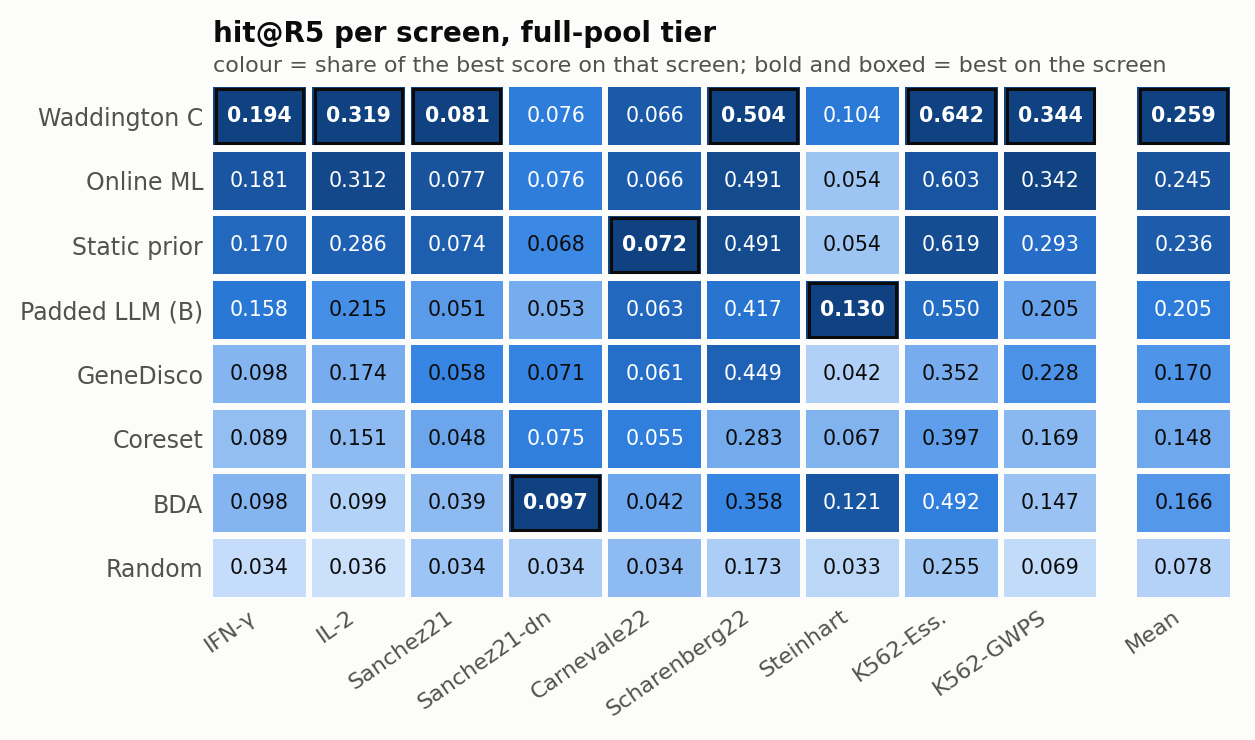
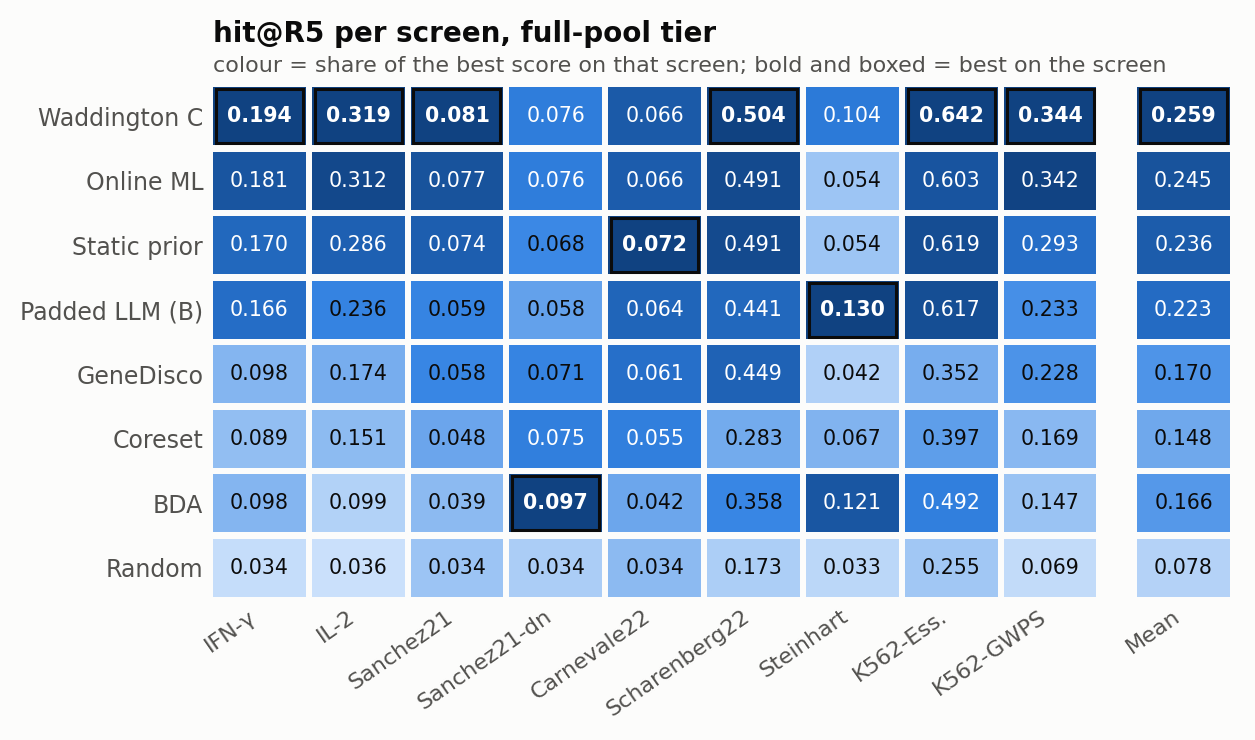
Main tables carry the matched B (padding on C's own features)
The padded LLM baseline B of the main tables, figures 1-3 and the result
figures is now experiment 23's run, whose static padding reads the C-arm's
features; the original-configuration B moves to the appendix next to the
other original-configuration baselines (figure 18 gains a B panel).

sources.matched_b_run is the one path to those runs. matched_b.py uses
seed 4 for the paired bootstrap, as final_system_stats does for C vs the
LLM branch (so C - original B reproduces +0.049 [0.019, 0.080]), records
per-screen padding shares, and adds BDA - matched B on the pair settings.

Headline C - B: +0.036 [0.013, 0.063], 8/0/1 (was +0.049).

diff --git a/waddington_select/analysis/result_figures.py b/waddington_select/analysis/result_figures.py
@@ -34,6 +34,7 @@ from matplotlib.patches import Patch, Rectangle  # noqa: E402
 from matplotlib.ticker import PercentFormatter  # noqa: E402
 
 from . import style as S  # noqa: E402
+from .sources import MATCHED_B_ARM, matched_b_run  # noqa: E402
 
 REPO = Path(__file__).resolve().parents[2]
 RES = REPO / "workspace" / "results"
@@ -100,6 +101,13 @@ def paper(*vals, nd: int = 3) -> None:
 
 def load(name: str) -> dict:
     return json.loads((RES / name).read_text())
+
+
+def _matched_b(tier: str) -> dict:
+    """B padded from C's own features (experiment 23), the B of the main tables: screen -> hit ratio per round,
+    mean over the twenty replicates."""
+    runs = json.loads(matched_b_run(tier).read_text())
+    return {s: np.mean([r["hit_ratio_per_round"] for r in runs[s][MATCHED_B_ARM]], axis=0).tolist() for s in SCREENS}
 
 
 def save(fig, key: str) -> None:
@@ -223,9 +231,10 @@ def fig_overview():
     """Explainer section 1: the reported system against the strongest baseline on each of BDA's three tiers."""
     mb = load("matched_baselines.json")
     h, f = mb["headline"]["means"], mb["full_pool"]["means"]
-    pairs = [("Waddington C", 112.6, C["waddington_c"]), (name_b(), 128.2, C["llm_reasoning"]),
+    pb = round(load("matched_b.json")["pairs128"]["means"]["matched_B"], 1)
+    pairs = [("Waddington C", 112.6, C["waddington_c"]), (name_b(), pb, C["llm_reasoning"]),
              ("BDA", 160.0, C["bda"]), ("Random", 60.0, C["random"])]
-    paper(112.6, 128.2, 160.0, 60.0, nd=1)
+    paper(112.6, pb, 160.0, 60.0, nd=1)
     fig, axs = plt.subplots(1, 3, figsize=(6.6, 1.95), gridspec_kw=dict(wspace=0.95))
     for ax, t, m in ((axs[0], L("单扰动・非必需（主档）", "Single gene, non-essential"), h),
                      (axs[1], L("单扰动・全池", "Single gene, full pool"), f)):
@@ -372,7 +381,7 @@ def _main_rows(tier: str):
         "Waddington C": [rep[s]["waddington_c"][-1] for s in SCREENS],
         "Online ML": [mat[s]["online_ml"][-1] for s in SCREENS],
         name_static(): [mat[s]["static_prior"][-1] for s in SCREENS],
-        name_b(): [rep[s]["llm_reasoning"][-1] for s in SCREENS],
+        name_b(): [v[-1] for v in _matched_b(tier).values()],
         "Coreset": [mat[s]["coreset"][-1] for s in SCREENS],
         "Random": [rep[s]["random"][-1] for s in SCREENS],
     }
@@ -396,7 +405,7 @@ def fig_paired():
     """C minus each baseline, paired over the nine screens (paper Table 5's paired block)."""
     rows = [(L("静态先验（0.231）", "Static prior (0.231)"), 0.030, 0.016, 0.044, "8/0/1"),
             (L("Online ML（0.245，即 C 去掉 LLM）", "Online ML = C without LLM (0.245)"), 0.015, 0.004, 0.026, "7/0/2"),
-            (L("B：LLM 补位（0.212）", "Padded LLM, B (0.212)"), 0.049, 0.019, 0.080, "8/0/1"),
+            (L("B：LLM 补位（0.224）", "Padded LLM, B (0.224)"), 0.036, 0.013, 0.063, "8/0/1"),
             (L("Coreset（0.154）", "Coreset (0.154)"), 0.107, 0.060, 0.155, "9/0/0")]
     for r in rows:
         paper(*r[1:4])
@@ -684,12 +693,12 @@ def fig_robustness():
 
 def fig_tiers():
     """Every method on the two single-gene tiers."""
-    mb = load("matched_baselines.json")
+    mb, mbb = load("matched_baselines.json"), load("matched_b.json")
     h, f = mb["headline"]["means"], mb["full_pool"]["means"]
     paper(0.146, 0.166, 0.171, 0.170)
     items = [("Waddington C", h["C"], f["C"]), ("Online ML", h["matched_online_ml"], f["matched_online_ml"]),
              (name_static(), h["matched_static_prior"], f["matched_static_prior"]),
-             (name_b(), h["benchmark_llm_reasoning"], f["benchmark_llm_reasoning"]),
+             (name_b(), mbb["headline"]["means"]["matched_B"], mbb["full_pool"]["means"]["matched_B"]),
              ("GeneDisco", 0.171, 0.170), ("BDA", 0.146, 0.166), ("Coreset", h["matched_coreset"], f["matched_coreset"]),
              ("Random", h["benchmark_random"], f["benchmark_random"])]
     fig, ax = plt.subplots(figsize=(6.6, 2.7))
@@ -715,10 +724,11 @@ def fig_tiers():
 
 def fig_pairs():
     """The two-gene tier at 640 picks (paper Tables 11-12, 21 and the pair text)."""
+    pb = load("matched_b.json")["pairs128"]
     rows = [("Random", 60.0, 7.3, C["random"]), (name_static(), 40, None, C["static_ranker"]),
             ("Coreset", 77, None, C["coreset"]), ("Online ML", 83, None, C["online_adaptive"]),
             (L("Waddington C（报告配置）", "Waddington C (reported)"), 112.6, 24.7, C["waddington_c"]),
-            (name_b(), 128.2, 22.1, C["llm_reasoning"]),
+            (name_b(), round(pb["means"]["matched_B"], 1), round(pb["sd"]["matched_B"], 1), C["llm_reasoning"]),
             (L("C + 随机森林引擎（仅 K562）", "C with random-forest engine"), 157.5, 25.5, LIGHT_BLUE),
             (L("BDA（GPT-5.6 Luna）", "BDA (our run, GPT-5.6 Luna)"), 160.0, 15.7, C["bda"]),
             ("", None, None, S.SURFACE),
@@ -793,20 +803,21 @@ def fig_jurkat():
 
 
 def fig_benchmark_config():
-    """Paper appendix: the three ML baselines in the original benchmark configuration (nine features with the
+    """Paper appendix: the baselines in the original benchmark configuration (nine features with the
     anchor-relative ones, no DepMap) against the versions in C's own features, per screen (repo
-    matched_baselines.json)."""
+    matched_baselines.json; B, whose padding is the part that changes, matched_b.json)."""
     mb = load("matched_baselines.json")["headline"]
     rep, mat = mb["reported"], mb["matched"]
     arms = [("Static prior", "static_ranker", "static_prior"), ("Online ML", "online_adaptive", "online_ml"),
             ("Coreset", "coreset", "coreset")]
+    panels = [(name, [rep[s][ok][-1] for s in SCREENS], [mat[s][mk][-1] for s in SCREENS]) for name, ok, mk in arms]
+    pb = load("matched_b.json")["headline"]["per_screen"]
+    panels.append(("Padded LLM (B)", [pb["reported_B"][s] for s in SCREENS], [pb["matched_B"][s] for s in SCREENS]))
     labels = SCREEN_LABEL + ["Mean"]
-    fig, axs = plt.subplots(1, 3, figsize=(6.6, 3.0), sharey=True, gridspec_kw=dict(wspace=0.12))
+    fig, axs = plt.subplots(1, 4, figsize=(6.6, 3.0), sharey=True, gridspec_kw=dict(wspace=0.12))
     yy = np.arange(len(labels))[::-1]
     yy = np.where(yy == 0, -0.4, yy)               # a little air above the mean row
-    for ax, (name, orig_key, mat_key) in zip(axs, arms):
-        o = [rep[s][orig_key][-1] for s in SCREENS]
-        m = [mat[s][mat_key][-1] for s in SCREENS]
+    for ax, (name, o, m) in zip(axs, panels):
         o.append(float(np.mean(o)))
         m.append(float(np.mean(m)))
         for yi, a, b in zip(yy, o, m):
@@ -821,8 +832,8 @@ def fig_benchmark_config():
         title(ax, f"{name}\n{o[-1]:.3f} → {m[-1]:.3f}")
     axs[0].set_yticks(yy, labels)
     axs[0].get_yticklabels()[-1].set_fontweight("bold")
-    legend(axs[2], [dot_handle(S.MUTED, "original configuration"), dot_handle(BLUE, "C's own features (matched)")],
-           loc="upper center", bbox_to_anchor=(-0.6, -0.2), ncol=2)
+    legend(axs[1], [dot_handle(S.MUTED, "original configuration"), dot_handle(BLUE, "C's own features (matched)")],
+           loc="upper center", bbox_to_anchor=(1.06, -0.2), ncol=2)
     save(fig, "benchmark_config")
 
 
@@ -834,18 +845,18 @@ def fig_benchmark_config():
 TIERS = ("headline", "full_pool", "pairs")
 TIER_ZH = {"headline": "主档", "full_pool": "全池档", "pairs": "双扰动档"}
 GPT = RES / "gpt"
-PAIR_RUNS = {   # map -> (dataset, matched-baseline key, {method: (run file under gpt/, arm)})
+PAIR_RUNS = {   # map -> (dataset, matched-baseline key, {method: (run file under gpt/, arm)}); B padded from C's features
     "K562": ("Horlbeck", "pairs", {"Random": ("tier_b_pairs_20rep/calibration_20rep.json", "random"),
-                                   "B": ("tier_b_pairs_20rep/calibration_20rep.json", "llm_reasoning"),
+                                   "B": ("matched_b/pairs128/llm_reasoning_matched_20rep.json", MATCHED_B_ARM),
                                    "C": ("tier_b_pairs_20rep/waddington_c_20rep.json", "waddington_c"),
                                    "BDA": ("tier_b_pairs_20rep/bda_controlled_real.json", "bda")}),
     "Jurkat": ("Horlbeck_Jurkat", "jurkat_b128", {"Random": ("jurkat_b128_20rep/random_20rep.json", "random"),
-                                                  "B": ("jurkat_b128_20rep/llm_reasoning_20rep.json", "llm_reasoning"),
+                                                  "B": ("matched_b/jurkat128/llm_reasoning_matched_20rep.json", MATCHED_B_ARM),
                                                   "C": ("jurkat_b128_20rep/waddington_c_20rep.json", "waddington_c"),
                                                   "BDA": ("jurkat_b128_20rep/bda_20rep.json", "bda")}),
     # K562 at BDA's own protocol (32 pairs per round, 160 picks; paper Table pairs-bda)
     "K562_b32": ("Horlbeck", "pairs_b32", {"Random": ("tier_b_pairs_b32_20rep/calibration_20rep.json", "random"),
-                                           "B": ("tier_b_pairs_b32_20rep/calibration_20rep.json", "llm_reasoning"),
+                                           "B": ("matched_b/pairs32/llm_reasoning_matched_20rep.json", MATCHED_B_ARM),
                                            "C": ("tier_b_pairs_b32_20rep/waddington_c_20rep.json", "waddington_c"),
                                            "BDA": ("tier_b_pairs_b32_20rep/bda_controlled_real.json", "bda")}),
 }
@@ -871,13 +882,14 @@ def _gd_curves(folder: Path, arm: str = "gdfb_achilles_bnn_coreset") -> dict:
 
 
 def _single_tier(tier: str) -> dict:
-    """Single-gene tier: method -> screen -> hit ratio per round (C, B, Random: replicate means)."""
+    """Single-gene tier: method -> screen -> hit ratio per round (C, B, Random: replicate means; B padded from C's
+    features)."""
     mb = load("matched_baselines.json")[tier]
     rep, mat = mb["reported"], mb["matched"]
     m = {"Waddington C": {s: rep[s]["waddington_c"] for s in SCREENS},
          "Online ML": {s: mat[s]["online_ml"] for s in SCREENS},
          name_static(): {s: mat[s]["static_prior"] for s in SCREENS},
-         name_b(): {s: rep[s]["llm_reasoning"] for s in SCREENS},
+         name_b(): _matched_b(tier),
          "Coreset": {s: mat[s]["coreset"] for s in SCREENS},
          "Random": {s: rep[s]["random"] for s in SCREENS}}
     if tier == "headline":
@@ -1047,15 +1059,16 @@ def fig_tier_paired(tier: str):
         cfin = {s: m["Waddington C"][s][-1] for s in SCREENS}
         if tier == "headline":      # the paper's paired block (Table 5), as printed there
             given = {name_static(): (0.030, 0.016, 0.044, "8/0/1"), "Online ML": (0.015, 0.004, 0.026, "7/0/2"),
-                     name_b(): (0.049, 0.019, 0.080, "8/0/1"), "Coreset": (0.107, 0.060, 0.155, "9/0/0")}
+                     name_b(): (0.036, 0.013, 0.063, "8/0/1"), "Coreset": (0.107, 0.060, 0.155, "9/0/0")}
             for v in given.values():
                 paper(*v[:3])
         else:
             pc = load("matched_baselines.json")["full_pool"]["paired_C_vs"]
-            src = {name_static(): "matched_static_prior", "Online ML": "matched_online_ml",
-                   name_b(): "benchmark_llm_reasoning", "Coreset": "matched_coreset"}
+            src = {name_static(): "matched_static_prior", "Online ML": "matched_online_ml", "Coreset": "matched_coreset"}
             given = {n: (pc[k]["delta"], *pc[k]["ci95"], f"{pc[k]['wins']}/{pc[k]['ties']}/{pc[k]['losses']}")
                      for n, k in src.items()}
+            cb = load("matched_b.json")["full_pool"]["C_minus_matched_B"]
+            given[name_b()] = (cb["delta"], *cb["ci95"], f"{cb['wins']}/{cb['ties']}/{cb['losses']}")
         bda = _paired(cfin, {s: m["BDA"][s][-1] for s in SCREENS})
         given["BDA"] = (bda["delta"], *bda["ci95"], f"{bda['wins']}/{bda['ties']}/{bda['losses']}")
         means = {n: np.mean([m[n][s][-1] for s in SCREENS]) for n in names}

diff --git a/waddington_select/analysis/matched_b.py b/waddington_select/analysis/matched_b.py
@@ -3,11 +3,13 @@ matched_b.py — the padded LLM baseline B with its padding on the C-arm's featu
 reported B (padding on the original benchmark configuration: six intrinsic + three anchor, no DepMap) and C.
 
 Single-gene tiers: per-screen means over twenty replicates, then paired screen-clustered bootstrap over the nine
-screens (final_system_stats._paired). Two-gene tiers (one map each): Welch t over replicates.
+screens (final_system_stats._paired, seed 4 as its vs_llm_branch, so C - reported B reproduces the paper's
++0.049 [0.019, 0.080]). Two-gene tiers (one map each): Welch t over replicates.
 
-  C - matched B       the comparison the main table should carry: only who leads, the LLM or the ML, differs
-  C - reported B      as reported
+  C - matched B       the comparison the main tables carry: only who leads, the LLM or the ML, differs
+  C - reported B      the original-configuration B (Appendix, tab:benchmark_config)
   matched B - reported B   what the padding features alone did to B (anchors out, DepMap in)
+  BDA - matched B     two-gene tiers: BioDiscoveryAgent's agent at the same budget
 
 Run:  python -m waddington_select.analysis.matched_b      -> workspace/results/matched_b.json
 """
@@ -21,10 +23,9 @@ import numpy as np
 from scipy import stats
 
 from .final_system_stats import _paired
-from .sources import GPT, REPO, REPORTED_RUN, REPORTED_TIER_A_RUN
+from .sources import GPT, MATCHED_B_ARM, REPO, REPORTED_RUN, REPORTED_TIER_A_RUN, matched_b_run
 
 OUT = REPO / "workspace" / "results" / "matched_b.json"
-NEW = GPT / "matched_b"
 SINGLE = {"headline": REPORTED_RUN, "full_pool": REPORTED_TIER_A_RUN}
 EVAL = REPO / "workspace" / "evaluation"
 LABELS = {"headline": EVAL / "lgbm_training_data.csv", "full_pool": EVAL / "lgbm_training_data_tier_a.csv",
@@ -32,16 +33,21 @@ LABELS = {"headline": EVAL / "lgbm_training_data.csv", "full_pool": EVAL / "lgbm
           "pairs32": EVAL / "lgbm_training_data_horlbeck_pairs_mean.csv",
           "jurkat128": EVAL / "lgbm_training_data_horlbeck_jurkat_pairs.csv",
           "jurkat32": EVAL / "lgbm_training_data_horlbeck_jurkat_pairs.csv"}
-PAIRS = {  # tier -> (dataset, reported B file, C file)
+PAIRS = {  # tier -> (dataset, reported B file, C file, BDA file)
     "pairs128": ("Horlbeck", GPT / "tier_b_pairs_20rep" / "calibration_20rep.json",
-                 GPT / "tier_b_pairs_20rep" / "waddington_c_20rep.json"),
+                 GPT / "tier_b_pairs_20rep" / "waddington_c_20rep.json",
+                 GPT / "tier_b_pairs_20rep" / "bda_controlled_real.json"),
     "pairs32": ("Horlbeck", GPT / "tier_b_pairs_b32_20rep" / "calibration_20rep.json",
-                GPT / "tier_b_pairs_b32_20rep" / "waddington_c_20rep.json"),
+                GPT / "tier_b_pairs_b32_20rep" / "waddington_c_20rep.json",
+                GPT / "tier_b_pairs_b32_20rep" / "bda_controlled_real.json"),
     "jurkat128": ("Horlbeck_Jurkat", GPT / "jurkat_b128_20rep" / "llm_reasoning_20rep.json",
-                  GPT / "jurkat_b128_20rep" / "waddington_c_20rep.json"),
+                  GPT / "jurkat_b128_20rep" / "waddington_c_20rep.json",
+                  GPT / "jurkat_b128_20rep" / "bda_20rep.json"),
     "jurkat32": ("Horlbeck_Jurkat", GPT / "jurkat_b32_20rep" / "llm_reasoning_20rep.json",
-                 GPT / "jurkat_b32_20rep" / "waddington_c_20rep.json"),
+                 GPT / "jurkat_b32_20rep" / "waddington_c_20rep.json",
+                 GPT / "jurkat_b32_20rep" / "bda_20rep.json"),
 }
+SEED = 4  # final_system_stats.run_gpt's seed for C vs the LLM branch
 
 
 def _reps(path: Path, ds: str, arm: str) -> list[dict]:
@@ -87,13 +93,13 @@ def _split(reps: list[dict], hits: set, total: int) -> dict:
 def main() -> None:
     out = {}
     for tier, run in SINGLE.items():
-        f = NEW / tier / "llm_reasoning_matched_20rep.json"
+        f = matched_b_run(tier)
         if not f.exists():
             continue
         new, rep = json.loads(f.read_text()), json.loads(run.read_text())
         screens = list(rep)
         mean = lambda reps: float(np.mean([r["hit_ratio_per_round"][-1] for r in reps]))
-        b_new = {s: mean(new[s]["llm_reasoning_matched"]) for s in screens}
+        b_new = {s: mean(new[s][MATCHED_B_ARM]) for s in screens}
         b_old = {s: mean(rep[s]["llm_reasoning"]) for s in screens}
         c = {s: mean(rep[s]["waddington_c"]) for s in screens}
         out[tier] = {
@@ -101,33 +107,37 @@ def main() -> None:
             "means": {"matched_B": float(np.mean(list(b_new.values()))), "reported_B": float(np.mean(list(b_old.values()))),
                       "C": float(np.mean(list(c.values())))},
             "per_screen": {"matched_B": b_new, "reported_B": b_old, "C": c},
-            "C_minus_matched_B": _paired(c, b_new), "C_minus_reported_B": _paired(c, b_old),
-            "matched_B_minus_reported_B": _paired(b_new, b_old),
-            "padding_share": {"matched_B": _padding_share([r for s in screens for r in new[s]["llm_reasoning_matched"]]),
+            "C_minus_matched_B": _paired(c, b_new, seed=SEED), "C_minus_reported_B": _paired(c, b_old, seed=SEED),
+            "matched_B_minus_reported_B": _paired(b_new, b_old, seed=SEED),
+            "padding_share": {"matched_B": _padding_share([r for s in screens for r in new[s][MATCHED_B_ARM]]),
                               "reported_B": _padding_share([r for s in screens for r in rep[s]["llm_reasoning"]])},
-            "n_replicates": {s: len(new[s]["llm_reasoning_matched"]) for s in screens},
+            "padding_share_per_screen": {
+                "matched_B": {s: _padding_share(new[s][MATCHED_B_ARM]) for s in screens},
+                "reported_B": {s: _padding_share(rep[s]["llm_reasoning"]) for s in screens}},
+            "n_replicates": {s: len(new[s][MATCHED_B_ARM]) for s in screens},
         }
         H = _hits(tier)
         out[tier]["source_of_hits"] = {
             name: {k: float(np.mean([_split(reps[s], H[s], len(H[s]))[k] for s in screens]))
                    for k in ("named_picks", "named_hits", "padding_hits")}
-            for name, reps in (("matched_B", {s: new[s]["llm_reasoning_matched"] for s in screens}),
+            for name, reps in (("matched_B", {s: new[s][MATCHED_B_ARM] for s in screens}),
                                ("reported_B", {s: rep[s]["llm_reasoning"] for s in screens}))}
-    for tier, (ds, b_file, c_file) in PAIRS.items():
-        f = NEW / tier / "llm_reasoning_matched_20rep.json"
+    for tier, (ds, b_file, c_file, bda_file) in PAIRS.items():
+        f = matched_b_run(tier)
         if not f.exists():
             continue
-        new = _reps(f, ds, "llm_reasoning_matched")
+        new = _reps(f, ds, MATCHED_B_ARM)
         old, c = _reps(b_file, ds, "llm_reasoning"), _reps(c_file, ds, "waddington_c")
         hits = lambda reps: [r["cumulative_hits"][-1] for r in reps]
-        hn, ho, hc = hits(new), hits(old), hits(c)
+        hn, ho, hc, hb = hits(new), hits(old), hits(c), hits(_reps(bda_file, ds, "bda"))
         out[tier] = {
             "unit": "cumulative hits, " + ds,
-            "means": {"matched_B": float(np.mean(hn)), "reported_B": float(np.mean(ho)), "C": float(np.mean(hc))},
+            "means": {"matched_B": float(np.mean(hn)), "reported_B": float(np.mean(ho)), "C": float(np.mean(hc)),
+                      "BDA": float(np.mean(hb))},
             "sd": {"matched_B": float(np.std(hn, ddof=1)), "reported_B": float(np.std(ho, ddof=1)),
-                   "C": float(np.std(hc, ddof=1))},
+                   "C": float(np.std(hc, ddof=1)), "BDA": float(np.std(hb, ddof=1))},
             "C_minus_matched_B": _welch(hc, hn), "C_minus_reported_B": _welch(hc, ho),
-            "matched_B_minus_reported_B": _welch(hn, ho),
+            "matched_B_minus_reported_B": _welch(hn, ho), "BDA_minus_matched_B": _welch(hb, hn),
             "padding_share": {"matched_B": _padding_share(new), "reported_B": _padding_share(old)},
             "n_replicates": len(new),
             "source_of_hits": {"matched_B": _split(new, _hits(tier)[ds], 1),
@@ -137,7 +147,9 @@ def main() -> None:
     for tier, r in out.items():
         m = r["means"]
         print(f"{tier:10s} matched B {m['matched_B']:.4g}  reported B {m['reported_B']:.4g}  C {m['C']:.4g}")
-        for k in ("C_minus_matched_B", "C_minus_reported_B", "matched_B_minus_reported_B"):
+        for k in ("C_minus_matched_B", "C_minus_reported_B", "matched_B_minus_reported_B", "BDA_minus_matched_B"):
+            if k not in r:
+                continue
             p = r[k]
             tail = f"{p['wins']}/{p['ties']}/{p['losses']}" if "wins" in p else f"p={p['p']:.2g}"
             print(f"    {k:28s} {p['delta']:+.4g} [{p['ci95'][0]:+.4g}, {p['ci95'][1]:+.4g}] {tail}")

diff --git a/waddington_select/analysis/data.py b/waddington_select/analysis/data.py
@@ -20,6 +20,7 @@ GENEDISCO_ARM = "gdfb_achilles_bnn_coreset"
 # The reported run of all six main-table arms (figures 1-3; analysis/sources.py); the legacy
 # three_arm.json waddington_c stays the reference for the component-ablation figure.
 from .sources import REPORTED_RUN as FINAL_WADD  # noqa: E402
+from .sources import MATCHED_B_ARM, matched_b_run  # noqa: E402
 GPT_RESULTS = REPO_ROOT / "workspace" / "results" / "gpt"
 # The three ML baselines in C's own feature configuration (analysis/matched_baselines.py), which the main
 # table and figures 1-3 report in place of the benchmark-configuration runs.
@@ -75,7 +76,7 @@ def load_methods(final: bool = False) -> pd.DataFrame:
     final=True swaps every arm present in the 20-seed run (FINAL_WADD) for the principal figures, so the
     figures match the 20-seed main table; arms absent from that file fall back to their 5-seed runs. It also
     swaps the three ML baselines for their versions in C's feature configuration (MATCHED, deterministic: one
-    run per screen).
+    run per screen), and B for its version padded from C's features (experiment 23, twenty replicates).
     """
     frames = []
     for path in sorted({f for f in METHOD_FILES.values()}):
@@ -102,6 +103,9 @@ def load_methods(final: bool = False) -> pd.DataFrame:
                 for d, m in matched.items() for arm, key in MATCHED_ARMS.items()
                 for i, hr in enumerate(m[key])]
         result = pd.concat([result[~result["arm"].isin(MATCHED_ARMS)], pd.DataFrame(rows)], ignore_index=True)
+    if final and matched_b_run("headline").exists():
+        b = _runs(matched_b_run("headline")).replace({"arm": {MATCHED_B_ARM: "llm_reasoning"}})
+        result = pd.concat([result[result["arm"] != "llm_reasoning"], b], ignore_index=True)
     return result
 
 

diff --git a/waddington_select/analysis/sources.py b/waddington_select/analysis/sources.py
@@ -26,6 +26,16 @@ REPORTED_RUN = REPORTED_RUN_DIR / "main_table_20rep.json"
 REPORTED_RUN_5REP = GPT / "replogle_transcriptomics_v2" / "main_table_5rep.json"
 # BDA's easier tier (full pool, essentials restored), same protocol and corrected prompts (experiment 08)
 REPORTED_TIER_A_RUN = GPT / "tier_a_full_pool_v2_20rep" / "main_table_20rep.json"
+# the padded LLM baseline B with its padding ranker on the C-arm's own features (experiment 23): the B of the
+# main tables on every tier. Settings: headline, full_pool, pairs128, pairs32, jurkat128, jurkat32. The B arm
+# inside the runs above (llm_reasoning) pads from the original benchmark features and is the appendix's B.
+MATCHED_B_DIR = GPT / "matched_b"
+MATCHED_B_ARM = "llm_reasoning_matched"
+
+
+def matched_b_run(setting: str) -> Path:
+    return MATCHED_B_DIR / setting / f"{MATCHED_B_ARM}_20rep.json"
+
 
 # before the prompt correction (kept, cited as such)
 FIRST_GPT_RUN_DIR = GPT / "gpt_5_6_luna_none_20rep"
